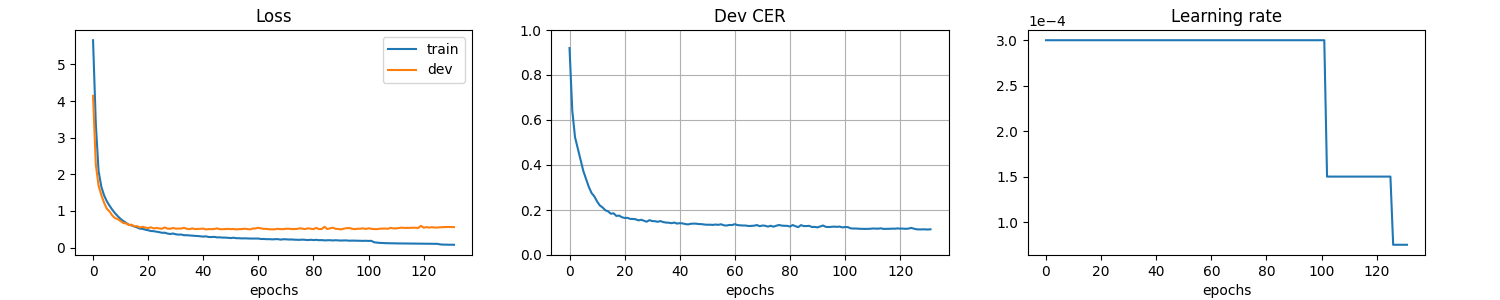
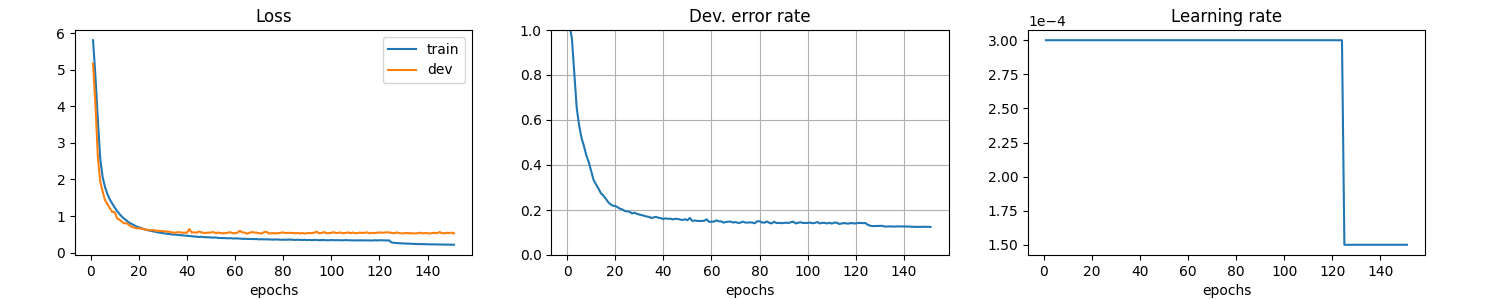
update figures

diff --git a/README.md b/README.md
@@ -8,7 +8,7 @@ BiGRU encoder + Attention decoder, based on **"Listen, Attend and Spell"**<sup>[
 
 The acoustic features are 80-dimensional filter banks. They are stacked every 3 consecutive frames, so the time resolution is reduced.
 
-With this code you can achieve **~13% CER** on the test set.
+With this code you can achieve **~14% CER** on the test set.
 
 ## Usage
 ### Install requirements
@@ -63,9 +63,9 @@ Or you can test random audio from the test set and see the attentions:
 $ python inference.py exp/default/best.pth --beams 20
 
 Predict:
-北 国 将 不 再 生 产 大 压 无 人 机
+出 庭 梁 长 比 赛 担 任 首 发
 Ground-truth:
-美 国 将 不 再 生 产 大 鸦 无 人 机
+朱 婷 两 场 比 赛 担 任 首 发
 ```
 ![](./img/Figure_3.png)
 
